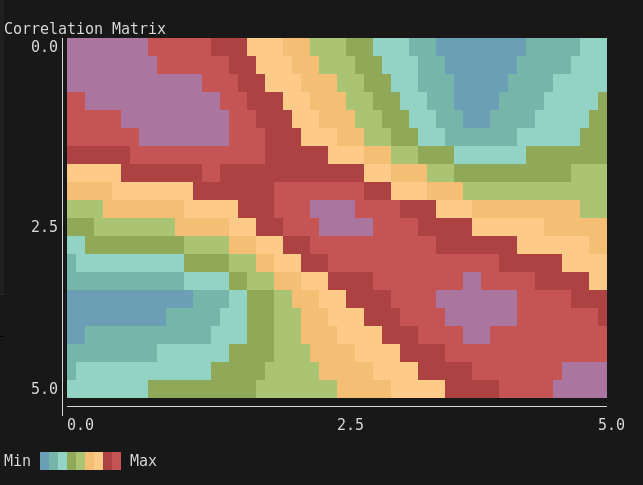
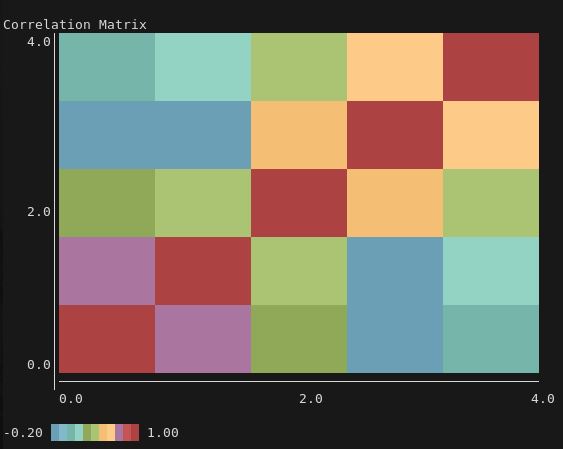
fix: Fix heatmap alignment and mapping.

diff --git a/CHANGELOG.md b/CHANGELOG.md
@@ -1,5 +1,9 @@
 # Revision history for granite
 
+## 0.1.0.3 -- 2025-08-21
+
+* Fix heatmaps: matrix grid wasn't properly mapping to canvas + axes were reversed.
+
 ## 0.1.0.2 -- 2025-08-20
 
 * Add README to doc files.
